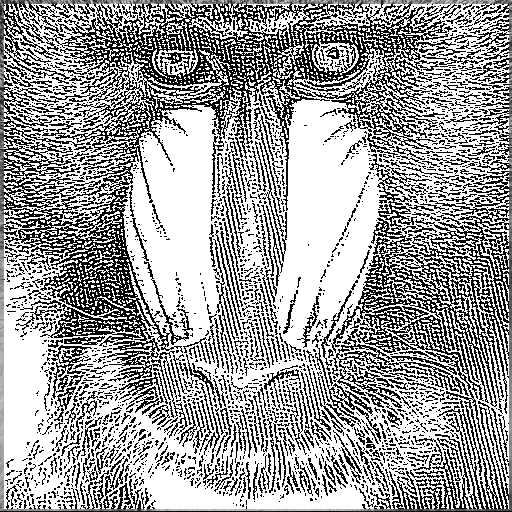
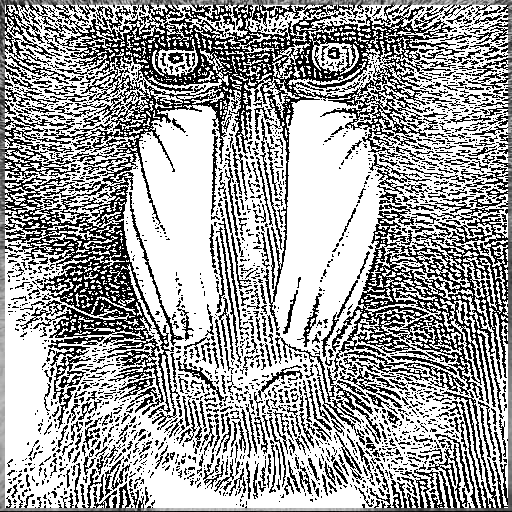
change pietaksinen value

diff --git a/image_threshold.py b/image_threshold.py
@@ -69,7 +69,7 @@ class ImageThreshold():
       plt.imshow(gray_img, 'gray', vmin=0, vmax=255)
       plt.show()
 
-  def sauvola_pietaksinen(self, k=0.5, n=7, r=128, show=False):
+  def sauvola_pietaksinen(self, k=0.5, n=9, r=128, show=False):
     gray_img = self._manager.get_image()
 
     height, width, img_size, radius = self._manager.get_image_defitions(n)
